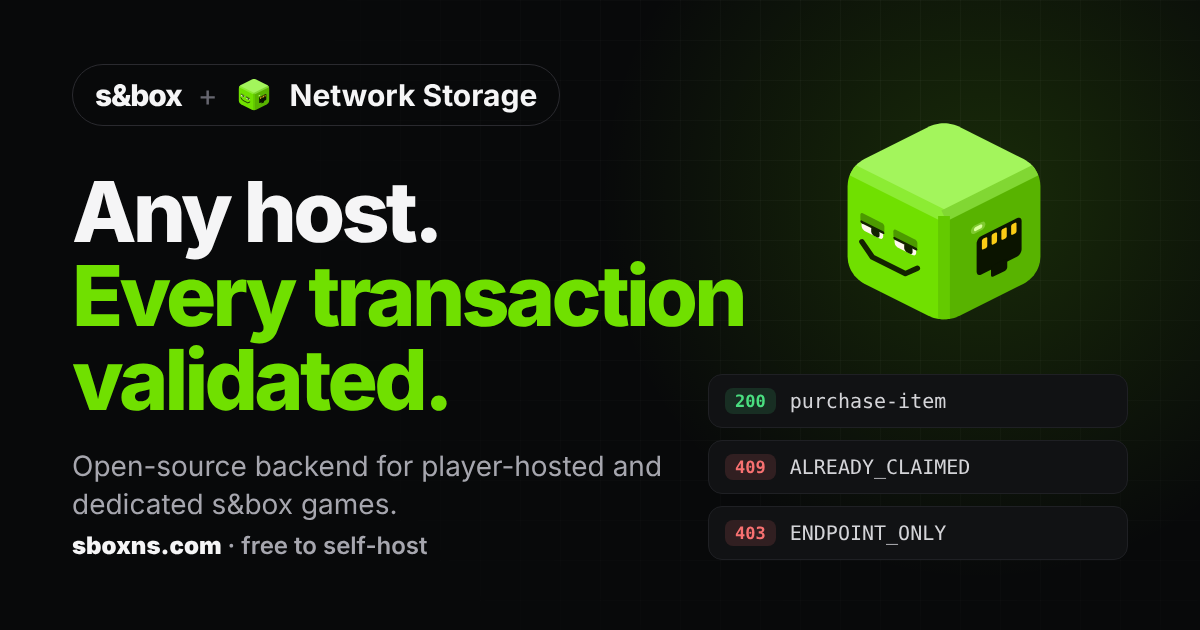
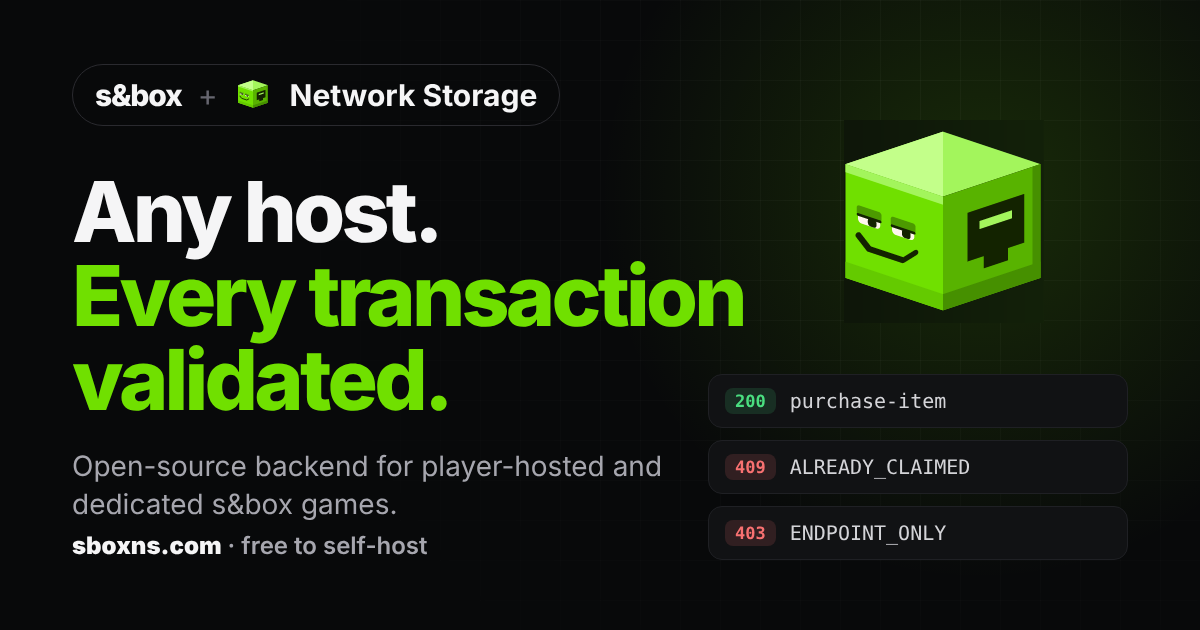
Adopt approved canonical lime 02 Sharp companion everywhere
Replace older rounded mascot with final centered approved file
(matrix 1 -.166667 0 1 0 0.778336, lime #70e000 with #a3f55c/#c3ff8a
top and #58b300/#469000 sides, no blue) in images/icon.svg,
images/favicon.svg and mockup brand.svg. Regenerate raster brand
assets from canonical: favicon 16/32, favicon.ico (16/32/48),
apple-touch-icon (180 on #08090a), logo-80.webp, social-card
(1200x630 with patched cubes). Remove tile treatment around
full-colour NS node icon (.node.ns .ico transparent, no border).

Counterpart library branding: sbox-network-storage PR #13 (a855260);
package version unchanged.

Changed region(s): [[0.6783, 0.181, 0.8942, 0.5127], [0.185, 0.1206, 0.2467, 0.181], [0.6783, 0.4222, 0.7092, 0.4524]]

diff --git a/site.css b/site.css
@@ -142,7 +142,7 @@ p { margin: 0; }
 .node .ico { width: 42px; height: 42px; border-radius: 12px; display: grid; place-items: center; border: 1px solid var(--line-strong); background: var(--bg); color: var(--text); }
 .node .ico svg.i { width: 20px; height: 20px; }
 .node b { display: block; color: var(--text); font-size: .78rem; font-weight: 650; }
-.node.ns .ico { width: 52px; height: 52px; margin-top: -5px; border-color: var(--accent); }
+.node.ns .ico { width: 52px; height: 52px; margin-top: -5px; background: transparent; border-color: transparent; }
 .node.ns .ico img { width: 40px; height: 40px; }
 .n-client { left: 14%; top: 34px; } .n-host { left: 14%; top: 132px; } .n-ns { left: 52%; top: 84px; } .n-db { left: 87%; top: 84px; }
 .packet { position: absolute; z-index: 2; left: 14%; top: 34px; width: 12px; height: 12px; margin: -6px 0 0 -6px; border-radius: 50%; background: var(--accent); box-shadow: 0 0 0 4px color-mix(in srgb, var(--accent) 25%, transparent); opacity: 0; pointer-events: none; }
